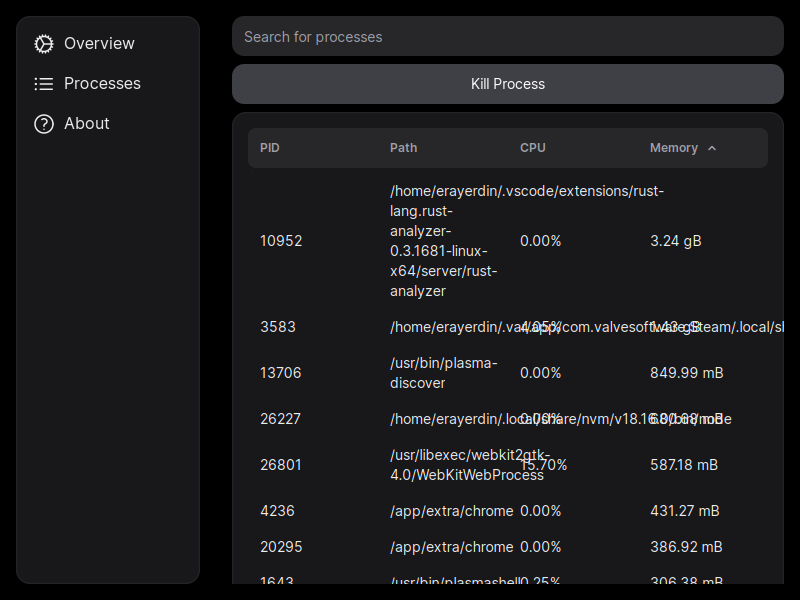
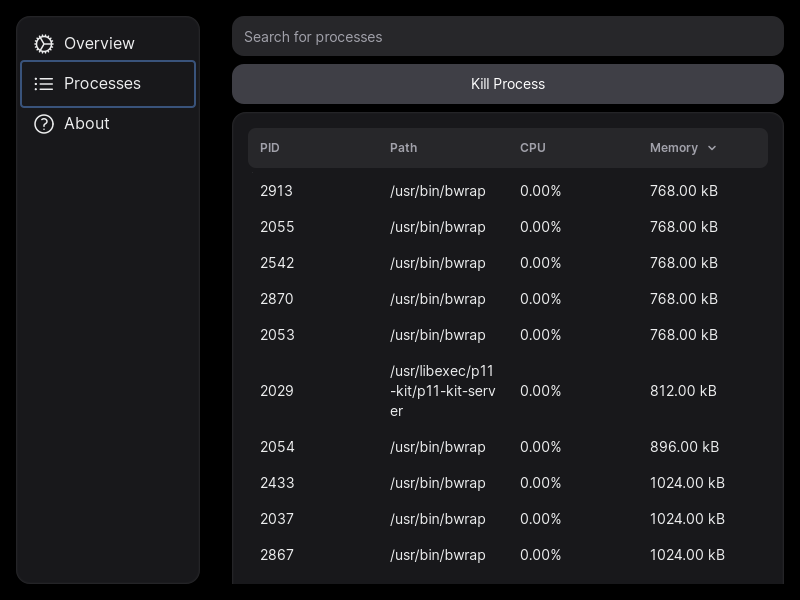
Fix text wrap on process list table (#15)
* update dependencies

* fix broken text wrap

* update process list screenshot

diff --git a/src/app/process-list/page.tsx b/src/app/process-list/page.tsx
@@ -104,7 +104,7 @@ function ProcessListPage() {
                 onClick={() => setSelectedProcess(p)}
               >
                 <TableCell>{p.pid}</TableCell>
-                <TableCell>{p.path}</TableCell>
+                <TableCell className="break-all">{p.path}</TableCell>
                 <TableCell>{cpuUsage}%</TableCell>
                 <TableCell>{memoryUsageHumanReadable} {memoryUsageMeasureType}</TableCell>
               </TableRow>
